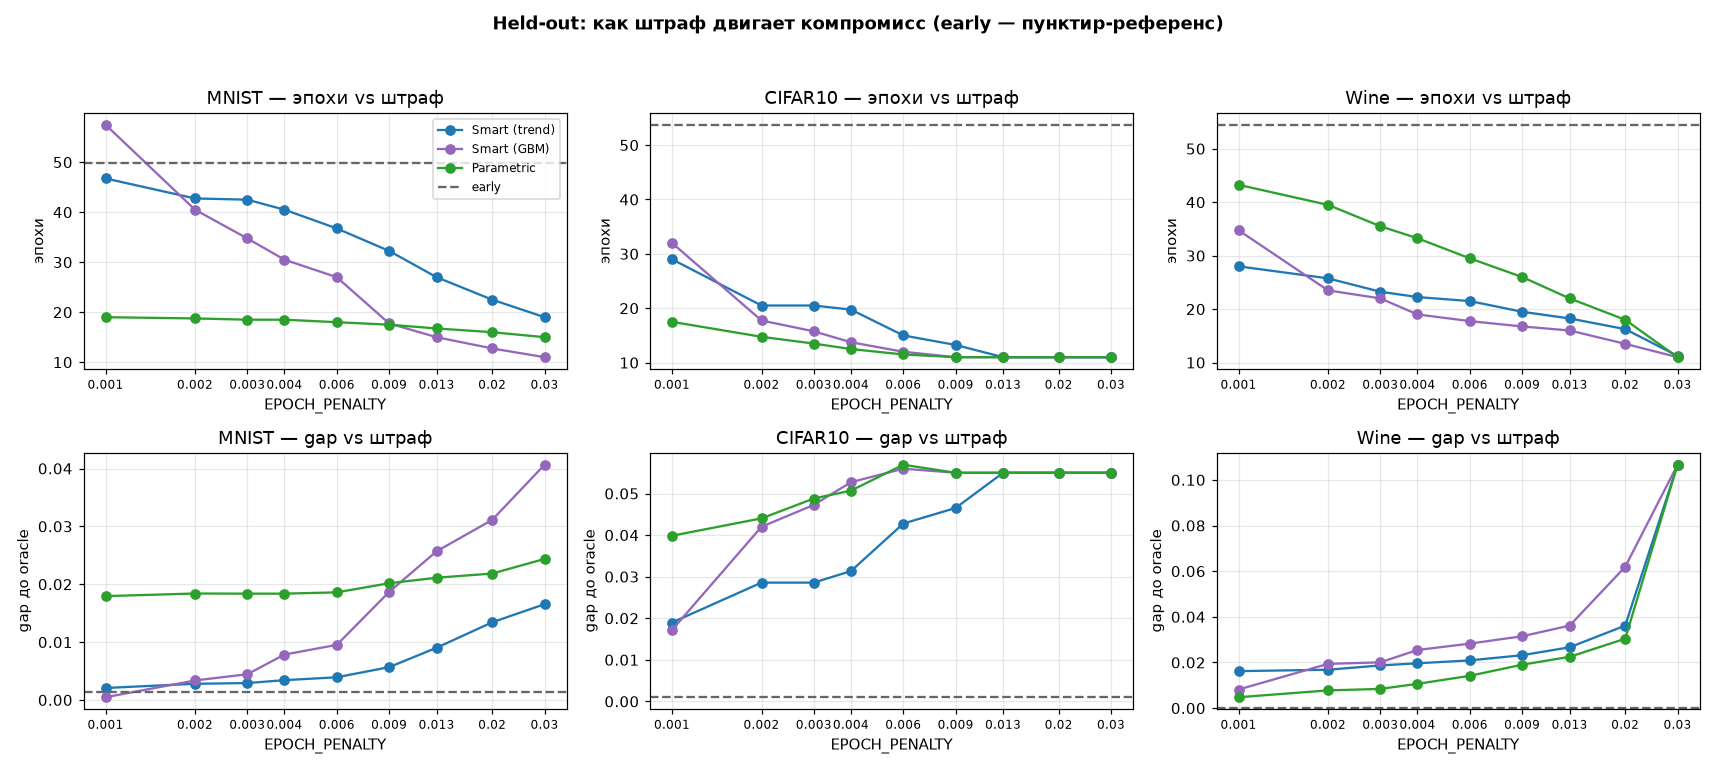
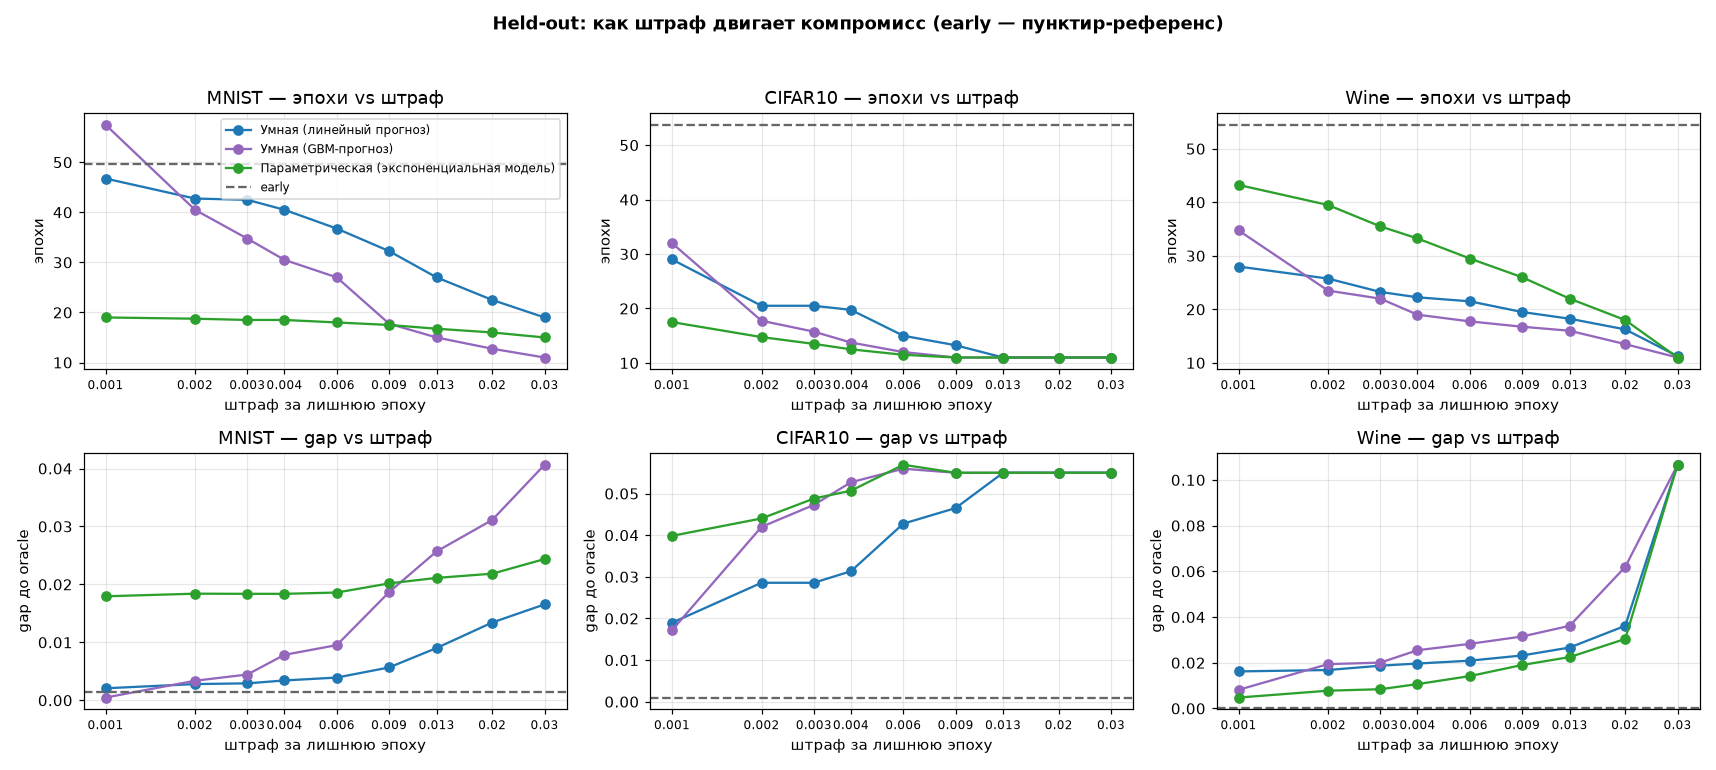
update plot

diff --git a/plot_early_stopping.py b/plot_early_stopping.py
@@ -22,19 +22,20 @@ plt.rcParams.update({"figure.dpi": 110, "font.size": 10, "axes.grid": True,
 COL = {"early": "#666666", "smart_trend": "#1f77b4",
        "smart_meta": "#9467bd", "param": "#2ca02c"}
 MRK = {"early": "o", "smart_trend": "s", "smart_meta": "P", "param": "D"}
-# Обобщённые метки: не привязаны к конкретному механизму прогноза. «Умная»
-# стратегия по линейному тренду подписана просто «Smart»; smart_meta
-# встречается только там, где обучен табличный GBM-прогнозист (вариант C).
-LBL = {"early": "Early stopping", "smart_trend": "Smart (trend)",
-       "smart_meta": "Smart (GBM)", "param": "Parametric"}
-SHORT = {"early": "early", "smart_trend": "smart",
-         "smart_meta": "s-gbm", "param": "param"}
+# Понятные без документации подписи для легенд: явно называем механизм
+# прогноза (линейный тренд / GBM / экспоненциальная модель), не кодовые имена.
+LBL = {"early": "Ранняя остановка (по терпению)",
+       "smart_trend": "Умная (линейный прогноз)",
+       "smart_meta": "Умная (GBM-прогноз)",
+       "param": "Параметрическая (экспоненциальная модель)"}
+SHORT = {"early": "ранняя", "smart_trend": "линейная",
+         "smart_meta": "GBM", "param": "эксп."}
 STRATS = ["early", "smart_trend", "smart_meta", "param"]
 
 # Прогнозисты кривой для fig4/fig5: (цвет, маркер, подпись).
 FC_STYLE = {
-    "trend": (COL["smart_trend"], "s", "линейный тренд (текущий)"),
-    "param": (COL["param"], "D", "параметрический (exp-fit)"),
+    "trend": (COL["smart_trend"], "s", "линейный прогноз"),
+    "param": (COL["param"], "D", "параметрическая модель (экспоненциальная)"),
 }
 
 
@@ -73,7 +74,7 @@ def fig_vs_size(D, out):
         ax[i, 1].set_title(f"{t} — итоговое качество ({metric})")
         ax[i, 0].set_ylabel("эпохи"); ax[i, 1].set_ylabel(metric)
         for c in (0, 1):
-            ax[i, c].set_xlabel("train_size")
+            ax[i, c].set_xlabel("размер обучающей выборки")
     ax[0, 0].legend(fontsize=8)
     ax[0, 1].legend(fontsize=8, loc="lower right")
     fig.suptitle("Стратегии остановки vs размер обучающей выборки", fontweight="bold")
@@ -96,11 +97,14 @@ def fig_tradeoff(D, out):
             ax[0, j].scatter(d.epochs, d.gap, s=85, color=COL[strat], marker=MRK[strat],
                              label=LBL[strat], edgecolor="w", lw=.6, alpha=.85, zorder=3)
         ax[0, j].axhline(0, color="k", lw=.8)
+        xs = np.linspace(sub.epochs.min(), sub.epochs.max(), 50)
+        thresh = 0.07 - 0.0015 * xs
+        ax[0, j].plot(xs, thresh, ":", color="crimson", lw=1.6, zorder=2,
+                      label="допустимая потеря качества" if j == 0 else None)
         ax[0, j].set_title(t); ax[0, j].set_xlabel("эпохи (меньше = быстрее)")
         ax[0, j].set_ylabel("потеря качества до oracle")
-        ax[0, j].invert_yaxis()
     ax[0, 0].legend(fontsize=8)
-    fig.suptitle("Компромисс скорость / качество: левый-верхний угол — идеал", fontweight="bold")
+    fig.suptitle("Компромисс скорость / качество: левый-нижний угол — идеал", fontweight="bold")
     fig.tight_layout(rect=[0, 0, 1, .95])
     fig.savefig(f"{out}/fig2_tradeoff.png"); plt.close(fig)
 
@@ -121,7 +125,7 @@ def fig_sweep(D, out):
         ax[1, j].axhline(early.oracle - early.q, color=COL["early"], ls="--", label="early")
         pens = sorted(sub[sub.strat == "smart_trend"].penalty.dropna().unique())
         for r in (0, 1):
-            ax[r, j].set_xscale("log"); ax[r, j].set_xlabel("EPOCH_PENALTY")
+            ax[r, j].set_xscale("log"); ax[r, j].set_xlabel("штраф за лишнюю эпоху")
             ax[r, j].set_xticks(pens); ax[r, j].set_xticklabels([f"{p:g}" for p in pens], fontsize=8)
             ax[r, j].minorticks_off()
         ax[0, j].set_title(f"{t} — эпохи vs штраф"); ax[1, j].set_title(f"{t} — gap vs штраф")
@@ -146,7 +150,7 @@ def fig_forecast(D, out):
         ax[0, j].set_title(t); ax[0, j].set_xlabel("шаг прогноза вперёд")
         ax[0, j].set_ylabel("rel. MAE (в долях val_loss[0])")
     ax[0, 0].legend(fontsize=9)
-    fig.suptitle("Точность прогноза кривой на HELD-OUT задачах: текущий метод vs параметрический",
+    fig.suptitle("Точность прогноза кривой на HELD-OUT задачах: линейный прогноз vs параметрическая модель",
                  fontweight="bold")
     fig.tight_layout(rect=[0, 0, 1, .93])
     fig.savefig(f"{out}/fig4_forecast.png"); plt.close(fig)
@@ -189,8 +193,8 @@ def fig_examples(D, out):
 
 
 def fig_calibration(D, out):
-    """fig6 — ядро варианта C: калибровка GBM-прогноза `relgain` на HELD-OUT
-    кривых и как ошибка растёт с зашумлённостью кривой.
+    """fig6 — калибровка GBM-прогноза «сколько улучшения ещё осталось»
+    (`relgain`) на HELD-OUT кривых и как ошибка растёт с зашумлённостью кривой.
 
     A: предсказанное vs истинное ещё-доступное улучшение за 10 эпох (диагональ —
        идеал), точки по held-out окнам, цвет — задача.
@@ -243,14 +247,14 @@ def fig_calibration(D, out):
     xs = np.arange(len(lbl))
     g_err = [np.abs(pred_g - y)[gi == i].mean() if (gi == i).any() else np.nan for i in xs]
     t_err = [np.abs(trend_g - y)[gi == i].mean() if (gi == i).any() else np.nan for i in xs]
-    ax[1].bar(xs - .19, g_err, .38, color=COL["smart_meta"], label="GBM (вариант C)")
-    ax[1].bar(xs + .19, t_err, .38, color=COL["smart_trend"], label="линейный тренд")
+    ax[1].bar(xs - .19, g_err, .38, color=COL["smart_meta"], label="GBM-прогноз")
+    ax[1].bar(xs + .19, t_err, .38, color=COL["smart_trend"], label="линейный прогноз")
     ax[1].set_xticks(xs); ax[1].set_xticklabels(lbl)
     ax[1].set_xlabel("смен знака Δval_loss за 8 эпох   (0 = кривая ещё гладко падает)")
     ax[1].set_ylabel("средняя |ошибка| прогноза relgain")
     ax[1].set_title("B. Провал линейного тренда — гладко-падающие\nкривые; GBM устойчив везде")
     ax[1].legend(fontsize=9)
-    fig.suptitle("Вариант C: прогнозист «сколько улучшения ещё осталось» (held-out задачи)",
+    fig.suptitle("GBM-прогнозист «сколько улучшения ещё осталось» (held-out задачи)",
                  fontweight="bold")
     fig.tight_layout(rect=[0, 0, 1, .93])
     fig.savefig(f"{out}/fig6_calibration.png"); plt.close(fig)
@@ -295,7 +299,7 @@ def fig_headline(D, out):
     ax.set_xlabel("эпохи обучения  (доля от early — влево = быстрее)")
     ax.set_ylabel("потеря качества до oracle  (доля oracle — вверх = хуже)")
     ax.set_title("Итог: экономия эпох против цены по качеству\n"
-                 "каждая стратегия при своём штрафе (PENALTY_BY_STRAT); ↙ угол — идеал",
+                 "у каждой стратегии свой штраф за лишнюю эпоху; ↙ угол — идеал",
                  fontweight="bold")
     ax.legend(fontsize=8, loc="lower left")
     fig.tight_layout()
